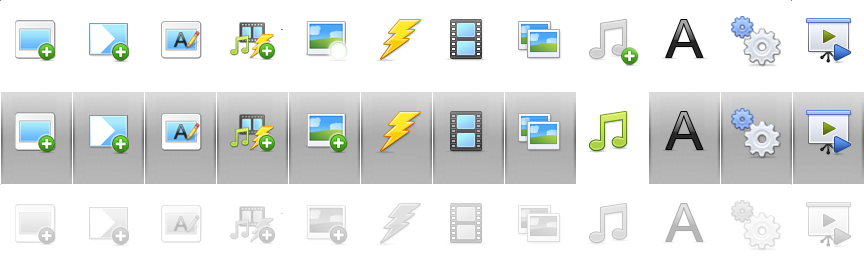
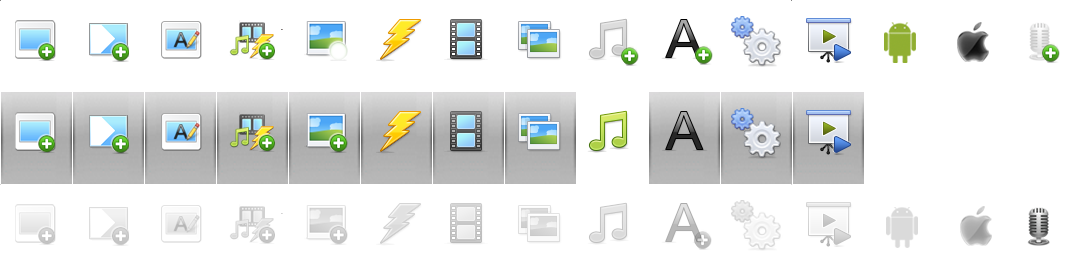
#653 #655 Buttons on toolbar for compiling to iOS and Android

diff --git a/app/assets/stylesheets/toolbar.css.less b/app/assets/stylesheets/toolbar.css.less
@@ -59,6 +59,20 @@ nav.toolbar {
         background-position: @toolbarItemWidth*-8 0;
       }
 
+
+      li.compile-android {
+        background-position: @toolbarItemWidth*-12 0;
+
+        a {
+          padding-top:2px;
+          line-height: 11px;
+        }
+      }
+
+      li.compile-ios {
+        background-position: @toolbarItemWidth*-13 0;
+      }
+
       li.background-sound.has-sound {
         background-position: (@toolbarItemWidth*-8)-1 @toolbarHeight*2;
       }
